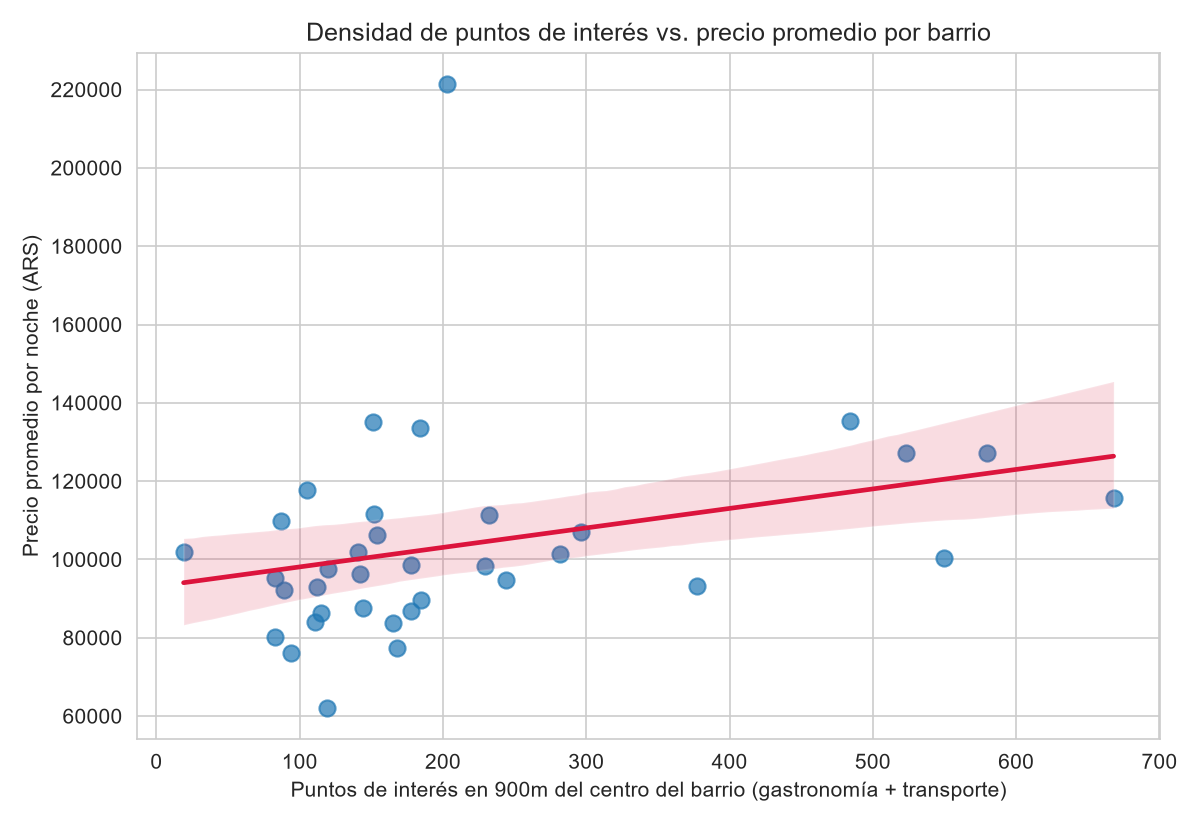
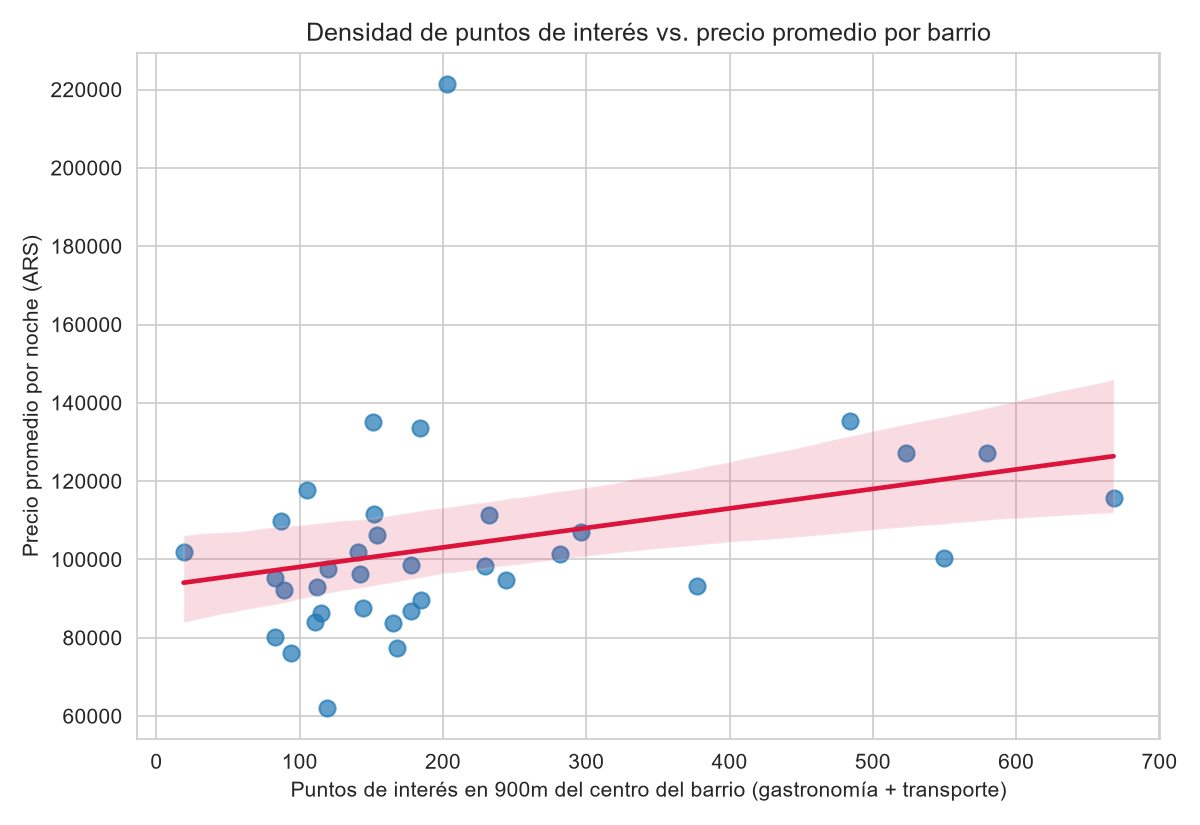
Agregar anexo de conexion con Google Analytics 4 (BigQuery, requisito de catedra)

diff --git a/build_notebook_part3_ga4.py b/build_notebook_part3_ga4.py
@@ -1,0 +1,79 @@
+"""Agrega el anexo de conexion con Google Analytics 4 (requisito de catedra,
+mencionado en clase, no escrito en la consigna) al notebook ya generado."""
+import nbformat as nbf
+
+nb = nbf.read("TP1_AirbnbBaires_MachineLearning.ipynb", as_version=4)
+cells = nb["cells"]
+
+def md(text):
+    cells.append(nbf.v4.new_markdown_cell(text))
+
+def code(text):
+    cells.append(nbf.v4.new_code_cell(text))
+
+md("""## Anexo: Conexión con Google Analytics 4 (requisito de cátedra)
+
+Este bloque no forma parte del análisis de Airbnb (que usa Inside Airbnb + OpenStreetMap, ver
+Sección 1). Se incluye para acreditar el requisito, mencionado en clase, de establecer una
+conexión funcional con **Google Analytics 4** desde el notebook.
+
+Como este proyecto no cuenta con un sitio o app propia instrumentada con GA4, la conexión se
+realiza contra la **exportación pública de GA4 a BigQuery** que Google publica para fines
+educativos (`bigquery-public-data.ga4_obfuscated_sample_ecommerce`): son eventos reales de GA4
+(page_view, session_start, add_to_cart, purchase, etc.) de una tienda de e-commerce, con la
+misma estructura que exporta cualquier propiedad de Google Analytics 4 real.
+
+**Para ejecutar esta celda:**
+1. Se necesita un proyecto de Google Cloud (gratuito, sin tarjeta) con la API de BigQuery
+   habilitada — ya está creado: `tp-ds2-ga4-airbnb`.
+2. Al correr la celda en Google Colab, `auth.authenticate_user()` abre un login interactivo
+   con tu cuenta de Google. Fuera de Colab (por ejemplo, Jupyter local) la celda detecta el
+   entorno y no intenta autenticar.
+""")
+
+code("""try:
+    from google.colab import auth
+    IN_COLAB = True
+except ImportError:
+    IN_COLAB = False
+
+GA4_PROJECT_ID = "tp-ds2-ga4-airbnb"  # proyecto de Google Cloud (Zona de pruebas, sin facturacion)
+
+if IN_COLAB:
+    auth.authenticate_user()
+    from google.cloud import bigquery
+
+    client = bigquery.Client(project=GA4_PROJECT_ID)
+
+    query_ga4 = \"\"\"
+    SELECT
+      event_date,
+      event_name,
+      COUNT(*) AS eventos
+    FROM `bigquery-public-data.ga4_obfuscated_sample_ecommerce.events_20210131`
+    GROUP BY event_date, event_name
+    ORDER BY eventos DESC
+    LIMIT 10
+    \"\"\"
+    ga4_eventos = client.query(query_ga4).to_dataframe()
+    print("Conexion con Google Analytics 4 (BigQuery) establecida correctamente.")
+    display(ga4_eventos)
+else:
+    print(
+        "Esta celda se conecta a Google Analytics 4 via BigQuery y requiere un entorno "
+        "de Google Colab (usa google.colab.auth para el login interactivo). "
+        "Ejecutar este notebook en Colab para ver la conexion en accion."
+    )
+""")
+
+md("""**Lectura:** la tabla muestra los 10 tipos de evento de GA4 más frecuentes en un día de
+la tienda de referencia (page_view, user_engagement, scroll, session_start, etc.), confirmando
+que la conexión con la API/exportación de Google Analytics 4 está establecida y devuelve datos
+reales.
+""")
+
+nb["cells"] = cells
+with open("TP1_AirbnbBaires_MachineLearning.ipynb", "w", encoding="utf-8") as f:
+    nbf.write(nb, f)
+
+print(f"Notebook actualizado con anexo GA4. Total de celdas: {len(cells)}")
